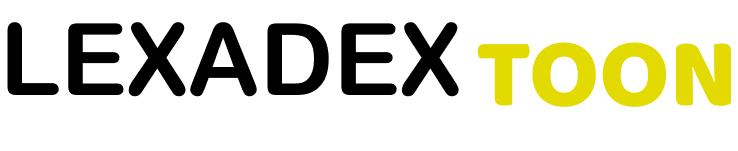
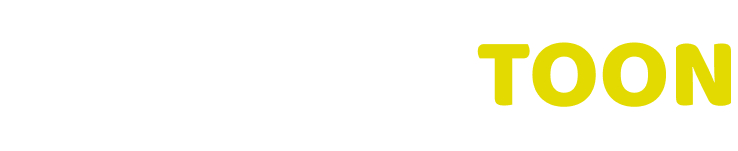
feat: add footer component

Changed region(s): [[0.0, 0.1325, 0.6233, 0.6358]]

diff --git a/src/pages/index.tsx b/src/pages/index.tsx
@@ -1,9 +1,14 @@
 import Head from "next/head";
+import Link from "next/link";
 
-import { CardNewComics } from "@components/home/CardNewComics";
+import { FooterComponent } from "@components/FooterComponent";
+
+import { CarouselCompletedSeries } from "@components/home/CarouselCompletedSeries";
+import { CarouselNewSeries } from "@components/home/CarouselNewSeries";
+import { CardUpdateComics } from "@components/home/CardUpdateComics";
 import { HeroComponent } from "@components/home/HeroComponent";
 
-import { SparkleIcon } from "lucide-react";
+import { ArrowRight, SparkleIcon } from "lucide-react";
 
 export default function HomePage() {
   return (
@@ -16,17 +21,51 @@ export default function HomePage() {
           <HeroComponent />
         </div>
 
-        <div className="mt-32 px-5 md:px-20 mb-20">
-          <h2 className="text-neutral-200 text-xl sm:text-2xl font-bold flex items-center gap-x-2">
+        {/* Update Series */}
+        <div className="mt-32 px-5 md:px-20">
+          <h2 className="text-neutral-800 dark:text-neutral-200 text-xl sm:text-2xl font-bold flex items-center gap-x-2">
             <SparkleIcon className="w-5 sm:w-6" />
             Update Comics
           </h2>
           <div className="mt-6 grid grid-cols-2 sm:grid-cols-3 md:grid-cols-4 lg:grid-cols-6 xl:grid-cols-7 gap-x-4 gap-y-6">
             {Array.from({ length: 10 }, (_, index) => (
-              <CardNewComics key={index} />
+              <CardUpdateComics key={index} />
             ))}
           </div>
+
+          <Link
+            href=""
+            className="flex items-center duration-150 text-sm justify-center border border-yellow-500 text-yellow-500 hover:bg-yellow-500 hover:text-neutral-900 gap-x-1.5 py-1.5 max-w-max px-4 mx-auto mt-5 rounded-lg"
+          >
+            Lihat Semua <ArrowRight className="w-5" />
+          </Link>
         </div>
+
+        {/* New Series */}
+        <div className="mt-20 px-5 md:px-20 mb-20">
+          <h2 className="text-neutral-800 dark:text-neutral-200 text-xl sm:text-2xl font-bold flex items-center gap-x-2">
+            <SparkleIcon className="w-5 sm:w-6" />
+            New Series
+          </h2>
+
+          <div>
+            <CarouselNewSeries />
+          </div>
+        </div>
+
+        {/* Completed Series */}
+        <div className="mt-20 px-5 md:px-20 mb-20">
+          <h2 className="text-neutral-800 dark:text-neutral-200 text-xl sm:text-2xl font-bold flex items-center gap-x-2">
+            <SparkleIcon className="w-5 sm:w-6" />
+            Completed Series
+          </h2>
+
+          <div>
+            <CarouselCompletedSeries />
+          </div>
+        </div>
+
+        <FooterComponent />
       </main>
     </>
   );

diff --git a/src/components/home/CardUpdateComics.tsx b/src/components/home/CardUpdateComics.tsx
@@ -1,7 +1,7 @@
 import Image from "next/image";
 import Link from "next/link";
 
-export function CardNewComics() {
+export function CardUpdateComics() {
   return (
     <>
       <Link href="" className="w-full">
@@ -14,21 +14,23 @@ export function CardNewComics() {
           />
         </div>
         <div className="mt-2 text-center">
-          <h4 className="font-bold text-neutral-300">
+          <h4 className="font-bold dark:text-neutral-300">
             Koori no Jouheki (Book Version)
           </h4>
 
           <div className="text-start flex flex-col-reverse mt-3 gap-y-2">
             <Link
               href=""
-              className="py-1.5 px-3 rounded-md text-sm text-start flex  items-center justify-between bg-neutral-800"
+              className="py-1.5 px-3 rounded-md text-sm text-start flex  items-center justify-between bg-neutral-300 dark:bg-neutral-800"
             >
               <p>Chapter 1</p>
-              <span className="text-[11px] text-neutral-400">1 hours</span>
+              <span className="text-[11px] text-neutral-700 dark:text-neutral-400">
+                1 hours
+              </span>
             </Link>
             <Link
               href=""
-              className="py-1.5 px-3 rounded-md text-sm bg-neutral-800 flex justify-between items-center"
+              className="py-1.5 px-3 rounded-md text-sm bg-neutral-300 dark:bg-neutral-800 flex justify-between items-center"
             >
               <div className="flex gap-x-1.5">
                 <p>Chapter 2</p>
@@ -37,7 +39,9 @@ export function CardNewComics() {
                 </span>
               </div>
 
-              <span className="text-[11px] text-neutral-400">1 hours</span>
+              <span className="text-[11px] text-neutral-700 dark:text-neutral-400">
+                1 hours
+              </span>
             </Link>
           </div>
         </div>

diff --git a/src/components/home/CarouselCompletedSeries.tsx b/src/components/home/CarouselCompletedSeries.tsx
@@ -1,0 +1,51 @@
+import Image from "next/image";
+import Link from "next/link";
+
+import {
+  Carousel,
+  CarouselContent,
+  CarouselItem,
+  CarouselNext,
+  CarouselPrevious,
+} from "@components/shadcn/Carousel";
+
+import { ArrowRight } from "lucide-react";
+
+export function CarouselCompletedSeries() {
+  return (
+    <div>
+      <Carousel className="w-full mt-7" opts={{ align: "start", loop: true }}>
+        <CarouselContent className="items-center">
+          {Array.from({ length: 10 }, (_, index) => (
+            <CarouselItem
+              key={index}
+              className="basis-[40%] sm:basis-1/4 md:basis-1/5 lg:basis-1/6 xl:basis-[13%]"
+            >
+              <div className="relative w-full h-52">
+                <Image
+                  src={`https://mangadex.org/covers/69aa984a-f5c0-4505-a11f-fe50e5fd16c9/a44cba6c-bd67-4b66-9fb9-4c3f0a8d941e.jpg`}
+                  alt="Judul Series"
+                  className="rounded-md"
+                  fill
+                />
+              </div>
+              <h2 className="mt-2">Judul Series</h2>
+            </CarouselItem>
+          ))}
+        </CarouselContent>
+
+        <div className="absolute mt-2 right-12 -top-10">
+          <CarouselNext className="mr-4" />
+          <CarouselPrevious />
+        </div>
+      </Carousel>
+
+      <Link
+        href=""
+        className="flex items-center duration-150 text-sm justify-center border border-yellow-500 text-yellow-500 hover:bg-yellow-500 hover:text-neutral-900 gap-x-1.5 py-1.5 max-w-max px-4 mx-auto mt-5 rounded-lg"
+      >
+        Lihat Semua <ArrowRight className="w-5" />
+      </Link>
+    </div>
+  );
+}

diff --git a/src/components/home/CarouselNewSeries.tsx b/src/components/home/CarouselNewSeries.tsx
@@ -1,0 +1,51 @@
+import Image from "next/image";
+import Link from "next/link";
+
+import {
+  Carousel,
+  CarouselContent,
+  CarouselItem,
+  CarouselNext,
+  CarouselPrevious,
+} from "@components/shadcn/Carousel";
+
+import { ArrowRight } from "lucide-react";
+
+export function CarouselNewSeries() {
+  return (
+    <div>
+      <Carousel className="w-full mt-7" opts={{ align: "start", loop: true }}>
+        <CarouselContent className="items-center">
+          {Array.from({ length: 10 }, (_, index) => (
+            <CarouselItem
+              key={index}
+              className="basis-[40%] sm:basis-1/4 md:basis-1/5 lg:basis-1/6 xl:basis-[13%]"
+            >
+              <div className="relative w-full h-52">
+                <Image
+                  src={`https://mangadex.org/covers/69aa984a-f5c0-4505-a11f-fe50e5fd16c9/a44cba6c-bd67-4b66-9fb9-4c3f0a8d941e.jpg`}
+                  alt="Judul Series"
+                  className="rounded-md"
+                  fill
+                />
+              </div>
+              <h2 className="mt-2">Judul Series</h2>
+            </CarouselItem>
+          ))}
+        </CarouselContent>
+
+        <div className="absolute mt-2 right-12 -top-10">
+          <CarouselNext className="mr-4" />
+          <CarouselPrevious />
+        </div>
+      </Carousel>
+
+      <Link
+        href=""
+        className="flex items-center duration-150 text-sm justify-center border border-yellow-500 text-yellow-500 hover:bg-yellow-500 hover:text-neutral-900 gap-x-1.5 py-1.5 max-w-max px-4 mx-auto mt-5 rounded-lg"
+      >
+        Lihat Semua <ArrowRight className="w-5" />
+      </Link>
+    </div>
+  );
+}

diff --git a/src/components/NavbarComponent.tsx b/src/components/NavbarComponent.tsx
@@ -3,7 +3,8 @@ import Link from "next/link";
 
 import { useTheme } from "next-themes";
 
-import LexadexLightImage from "@public/lexadex-light.png";
+import LogoDarkImage from "@public/lexadex-dark.png";
+import LogoLightImage from "@public/lexadex-light.png";
 
 import { MoonIcon } from "./icons/MoonIcon";
 import { SearchIcon } from "./icons/SearchIcon";
@@ -18,7 +19,11 @@ export function NavbarComponent() {
     >
       <div className="flex items-center justify-between h-full px-40 my-auto">
         <div className="flex items-center gap-x-20">
-          <Image src={LexadexLightImage} alt="Logo App" className="w-48" />
+          {resolvedTheme === "dark" ? (
+            <Image src={LogoLightImage} alt="Logo App" className="w-48" />
+          ) : (
+            <Image src={LogoDarkImage} alt="Logo App" className="w-48" />
+          )}
 
           <ul className="flex gap-x-10">
             <li>

diff --git a/src/components/FooterComponent.tsx b/src/components/FooterComponent.tsx
@@ -1,0 +1,23 @@
+import Image from "next/image";
+
+import { useTheme } from "next-themes";
+
+import LogoDarkImage from "@public/lexadex-dark.png";
+import LogoLightImage from "@public/lexadex-light.png";
+
+export function FooterComponent() {
+  const { resolvedTheme } = useTheme();
+
+  return (
+    <footer className="bg-neutral-200 dark:bg-neutral-800 min-h-20 mx-auto flex flex-col items-center py-10">
+      {resolvedTheme === "dark" ? (
+        <Image src={LogoLightImage} alt="Lexadex Icon" className="w-60" />
+      ) : (
+        <Image src={LogoDarkImage} alt="Lexadex Icon" className="w-60" />
+      )}
+      <div className="h-0.5 w-1/2 bg-neutral-500 dark:bg-neutral-900 my-3" />
+
+      <p className="text-sm">&copy;2026 LexadexToon - Indonesian</p>
+    </footer>
+  );
+}
